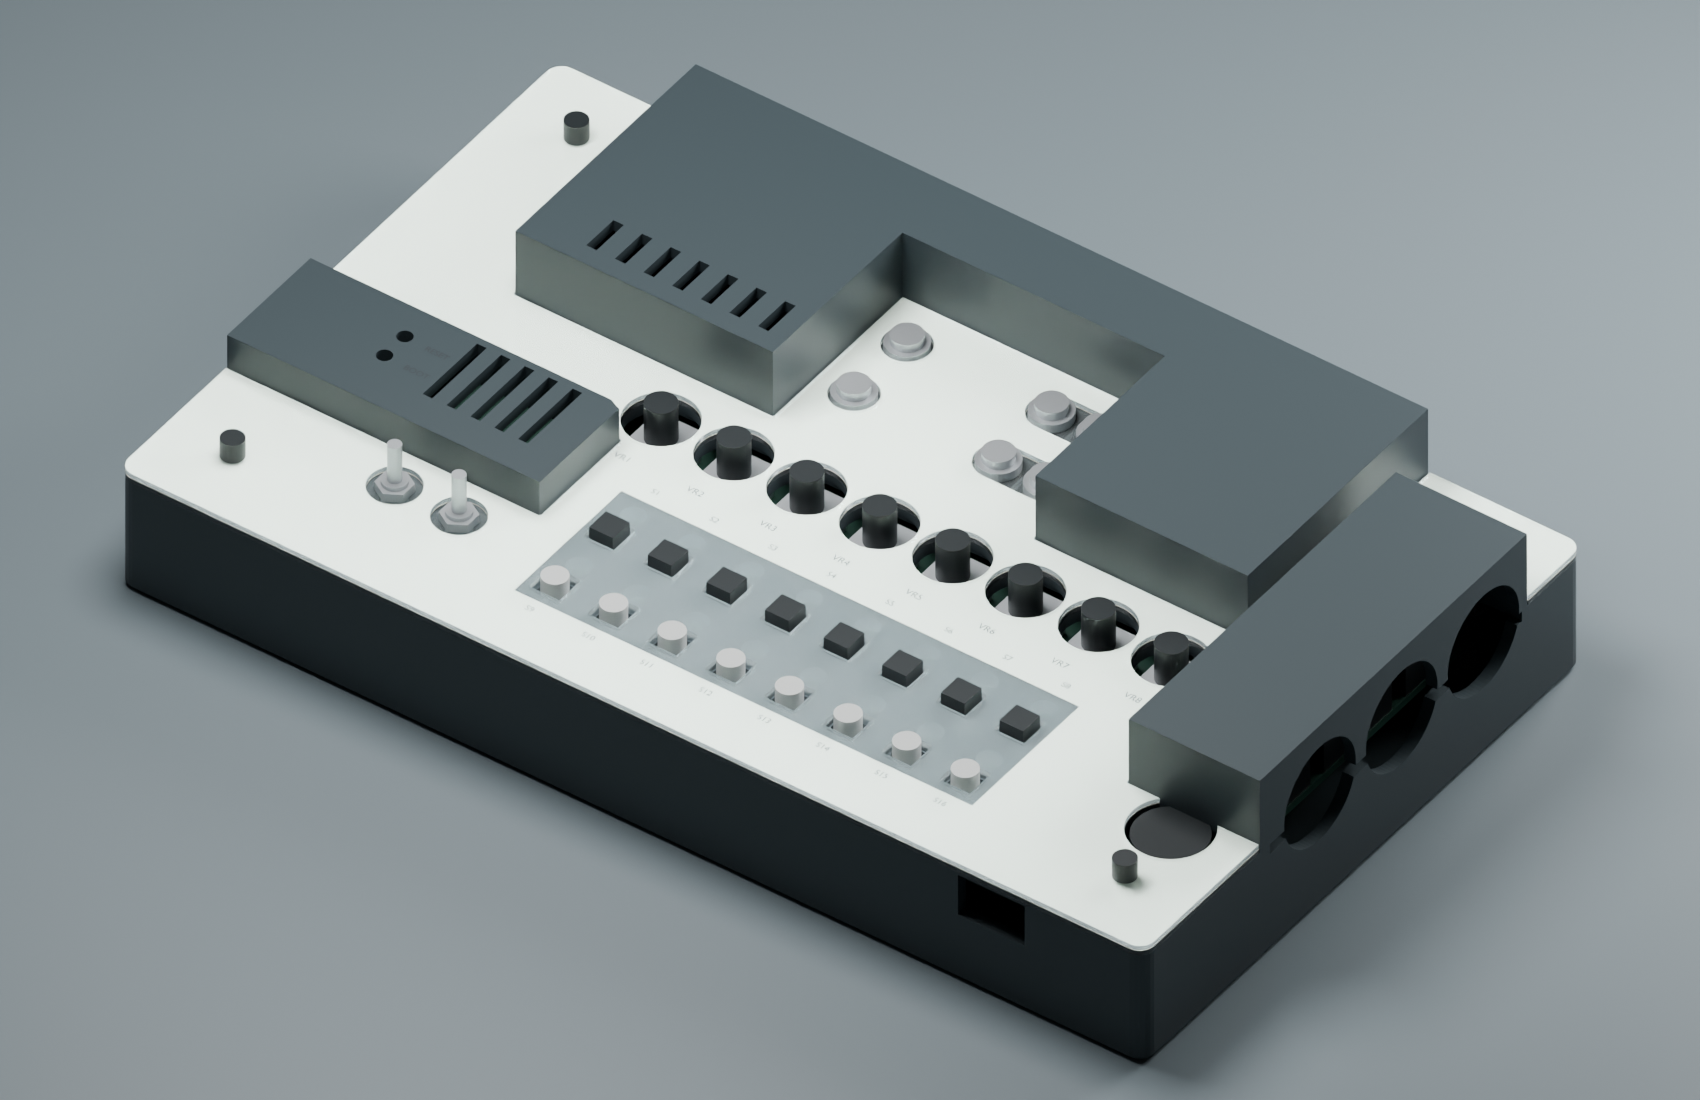
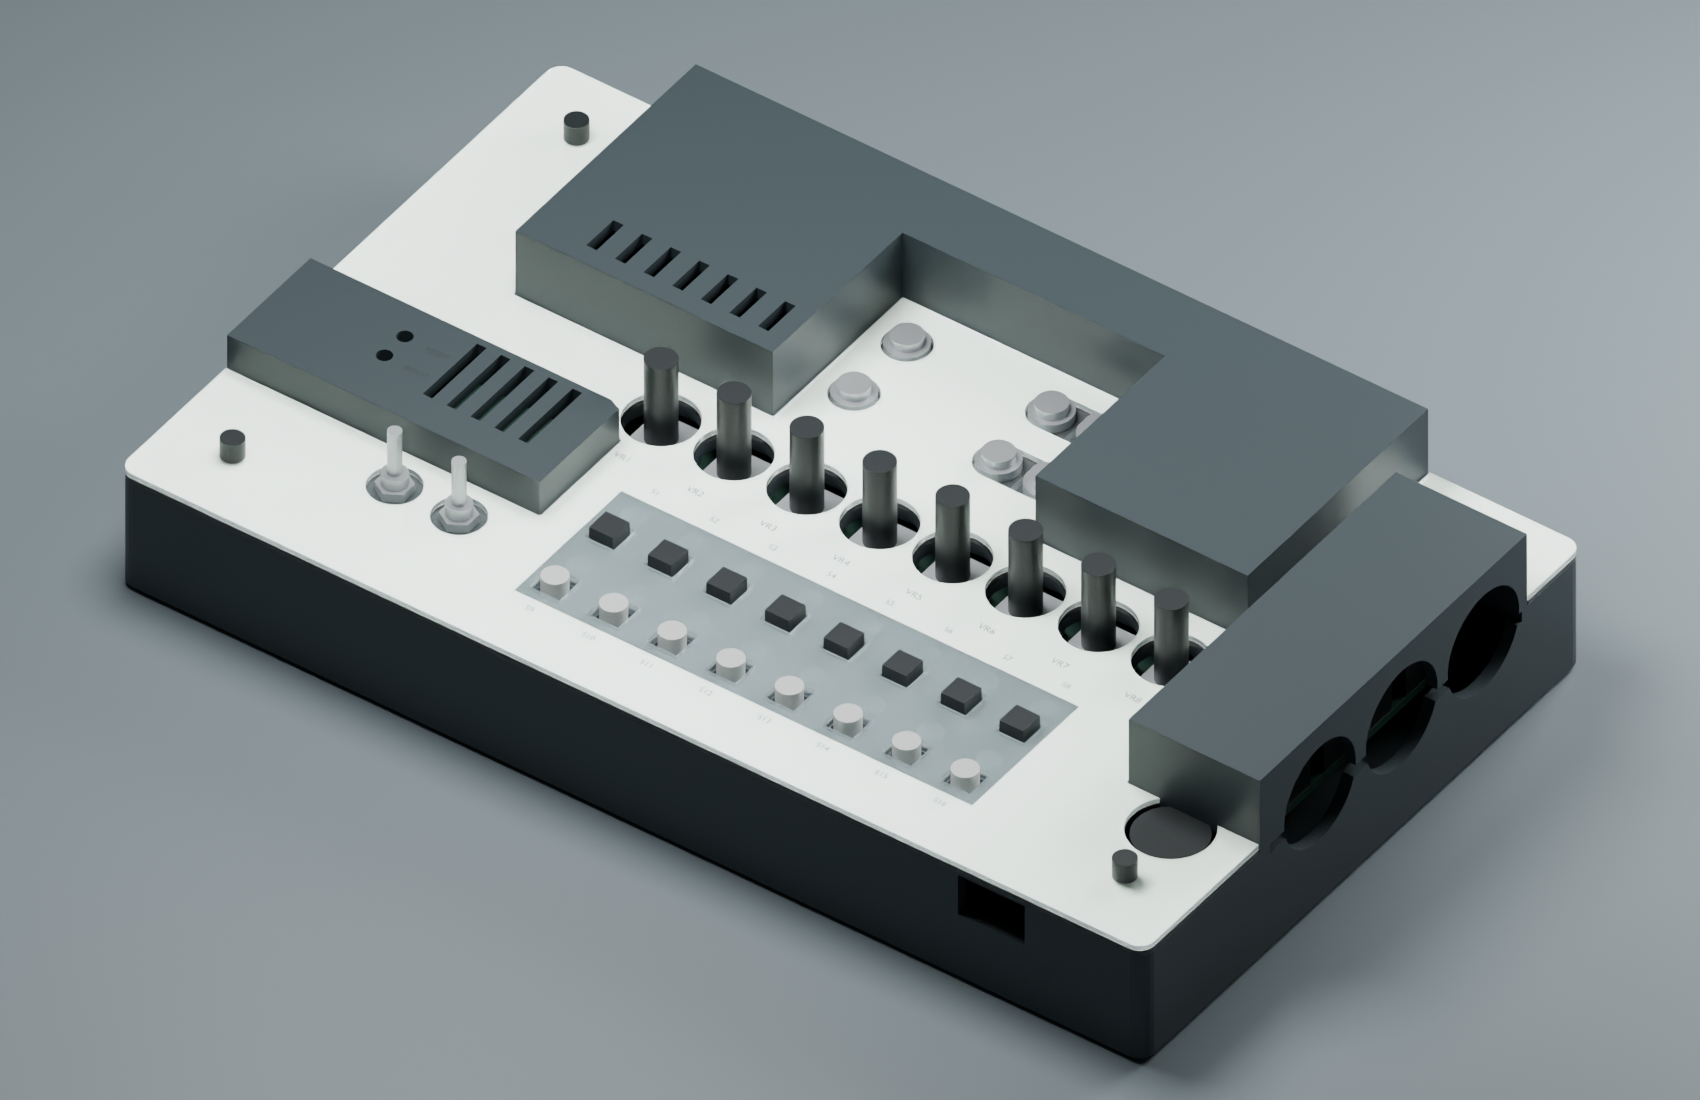
Correct nominal control heights in case illustrations

Changed region(s): [[0.3741, 0.3091, 0.7171, 0.5873], [0.2494, 0.4018, 0.2806, 0.4327], [0.2182, 0.3709, 0.2494, 0.4018]]

diff --git a/hardware/desktop-case/render_unified_preview.py b/hardware/desktop-case/render_unified_preview.py
@@ -90,7 +90,9 @@ for p in C['jacks']:
     cyl('Jack nut on lower layer',p['x'],p['y'],S['lower_top'],4.1,1.8,metal,32)
 for p in B['pots']:
     cube('Pot housing schematic',p['x']-4.5,p['y']-5.3,PCB,9,10.6,7,metal)
-    cyl('Pot shaft schematic',p['x'],p['y'],PCB+7,3,8,black)
+    # BOM RV09AF-40-25K: standard Alpha L=25 mm from seating plane to tip.
+    # The custom -0085 execution and physical seating remain unmeasured.
+    cyl('Pot shaft nominal L25, seating unmeasured',p['x'],p['y'],PCB+7,3,25-7,black)
     text(p['ref'],p['x'],68,S['lower_top']+.16)
 for p in B['buttons']:
     cube('Switch body',p['x']-3,p['y']-3,PCB,6,6,3.5,black)
@@ -104,9 +106,11 @@ for p in B['leds']:
     cube('Unlit LED schematic',p['x']-.8,p['y']-.4,PCB,1.6,.8,.7,grey)
 for p in B['toggles']:
     # Mounting Z is deliberately provisional until the M2 seating datum is confirmed.
-    cyl('Toggle barrel schematic',p['x'],p['y'],PCB+7,2.4,5.59,metal)
+    # Dailywell 2MSxT1B1M2: nominal body 8.64, B1 5.59, T1 9.40 mm.
+    # Assume the body base seats directly on PCB; the drawing stays schematic.
+    cyl('Toggle barrel nominal, seating unmeasured',p['x'],p['y'],PCB+8.64,2.4,5.59,metal)
     cyl('10-48 switch nut schematic',p['x'],p['y'],S['lower_top'],3.5,1.8,metal,6)
-    cyl('Toggle lever schematic',p['x'],p['y'],PCB+12.59,1.3,8,metal)
+    cyl('Toggle lever nominal, shown upright',p['x'],p['y'],PCB+8.64+5.59,1.3,9.4,metal)
     text(p['ref'],p['x'],86,S['lower_top']+.16)
 for p in C['service_positions_provisional']:
     text(p['name'],p['x']+7,p['y']+1,PCB+16+2.42,1.8)

diff --git a/hardware/desktop-case/UNIFIED_V3.md b/hardware/desktop-case/UNIFIED_V3.md
@@ -110,6 +110,30 @@ integrierten Seed-Haube. Lage und Werkzeuglänge bleiben vorläufig. Der
 herausnehmbare isolierende Druckstift ist eine Passstudie und vor Anwendung
 am tatsächlichen Modul abzugleichen.
 
+## Überstand der Potis und Kippschalter
+
+Die obere Acrylfläche liegt nominal 11,15 mm über PCB. Die
+[Hersteller-Stückliste](https://daisy.nyc3.cdn.digitaloceanspaces.com/products/seed-3-desktop/Seed3-DevKit-Desktop_Rev4-bom.csv)
+nennt für VR1–VR8 `RV09AF-40-25K-B10K-0085`. Die
+[Alpha-Standardzeichnung](https://www.taiwanalpha.com/downloads?id=72&target=products)
+zeigt bei der vertikalen 25K-Ausführung L = 25 ± 0,5 mm ab Auflageebene bis
+Wellenende. Daraus folgt **13,85 mm nominaler Wellenüberstand**, ohne
+zusätzlichen aufgesteckten Knopf. Die kundenspezifische Endung `-0085` ist mit
+dieser allgemeinen Zeichnung nicht gesondert nachgewiesen.
+
+Die beiden Dailywell-Schalter sind laut BOM `2MS1T1B1M2QE` und
+`2MS3T1B1M2QE`. Mit 8,64 mm Körperhöhe, 5,59 mm B1-Hülse und 9,40 mm T1-Hebel
+aus der [Dailywell-Zeichnung](https://lv.mouser.com/datasheet/2/979/dailywell_10012019_2M_Series-1660477.pdf)
+ergibt sich bei unmittelbar auf dem PCB sitzendem Gehäuse eine nominale
+Spitzenhöhe von 23,63 mm, also **12,48 mm über Acryl**. Hebelstellung,
+tatsächlicher Gehäusesitz und die Definition der Spitzenhöhe im gekippten
+Zustand beeinflussen das reale Maß.
+
+Alle Überstände: **rechnerisch aus Nennmaßen, Hardware NICHT GEMESSEN**.
+Die V3-Vorschauen wurden am 24.10.2026 entsprechend berichtigt: Zuvor waren
+Potiwellen mit nur 15 mm Gesamthöhe und Schalter mit 20,59 mm dargestellt.
+Die Gehäuse-STL und die 11,15-mm-Bedienebene ändern sich dadurch nicht.
+
 ## Unterseitige Freiräume und Prüfstand
 
 Die neue Haut liegt teilweise tiefer als die frühere Acrylplatte. Deshalb
